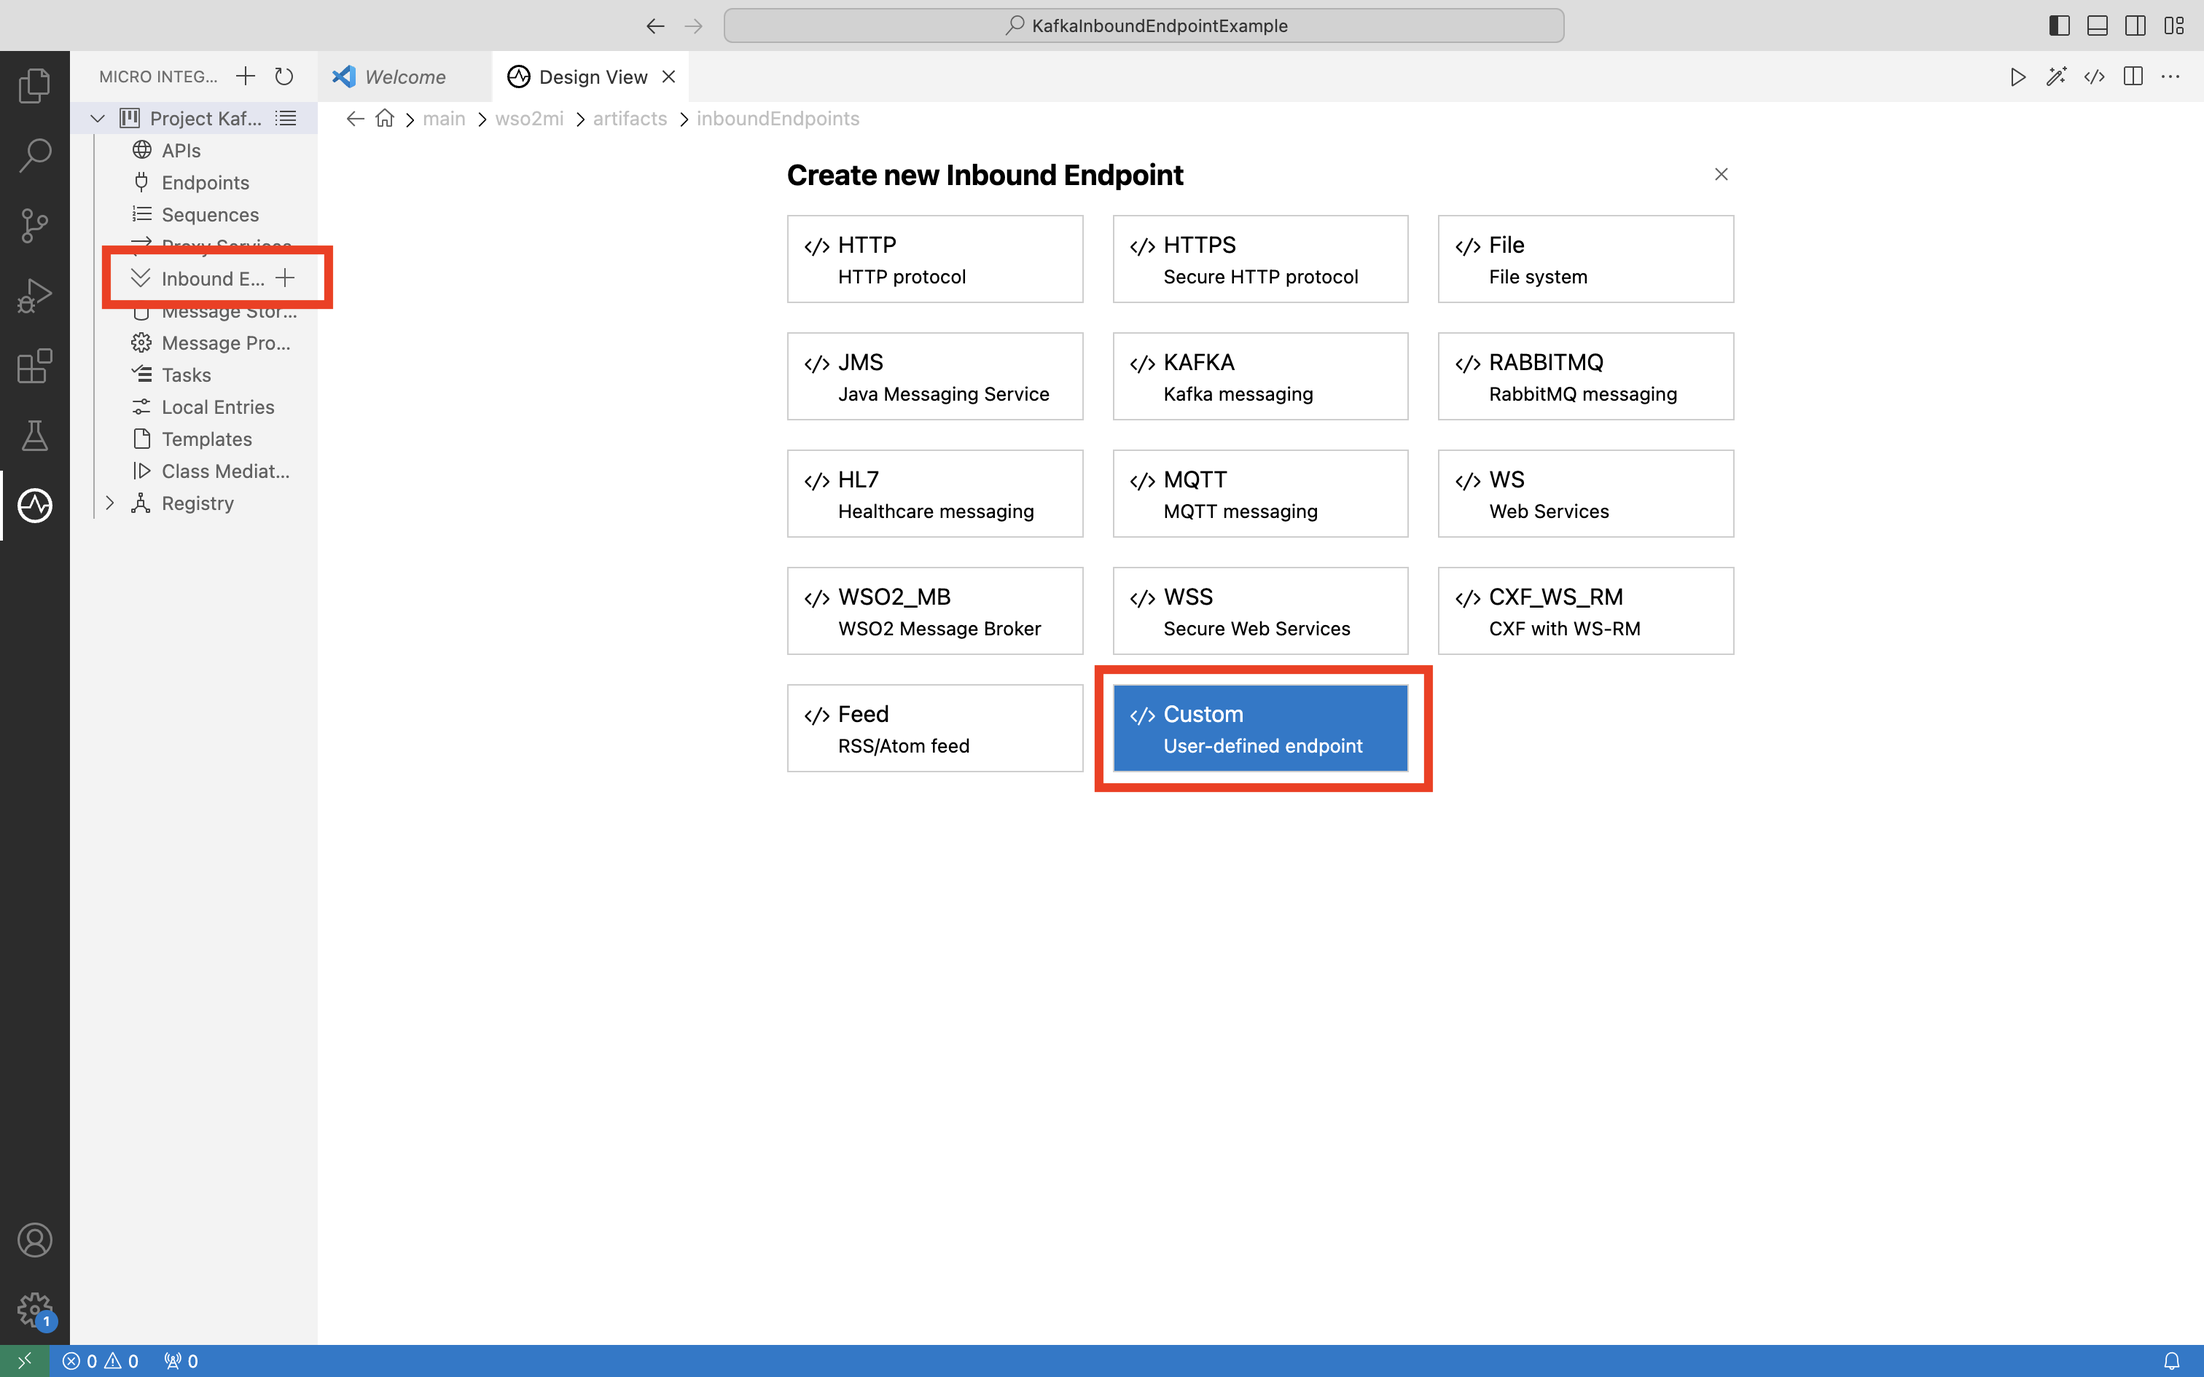
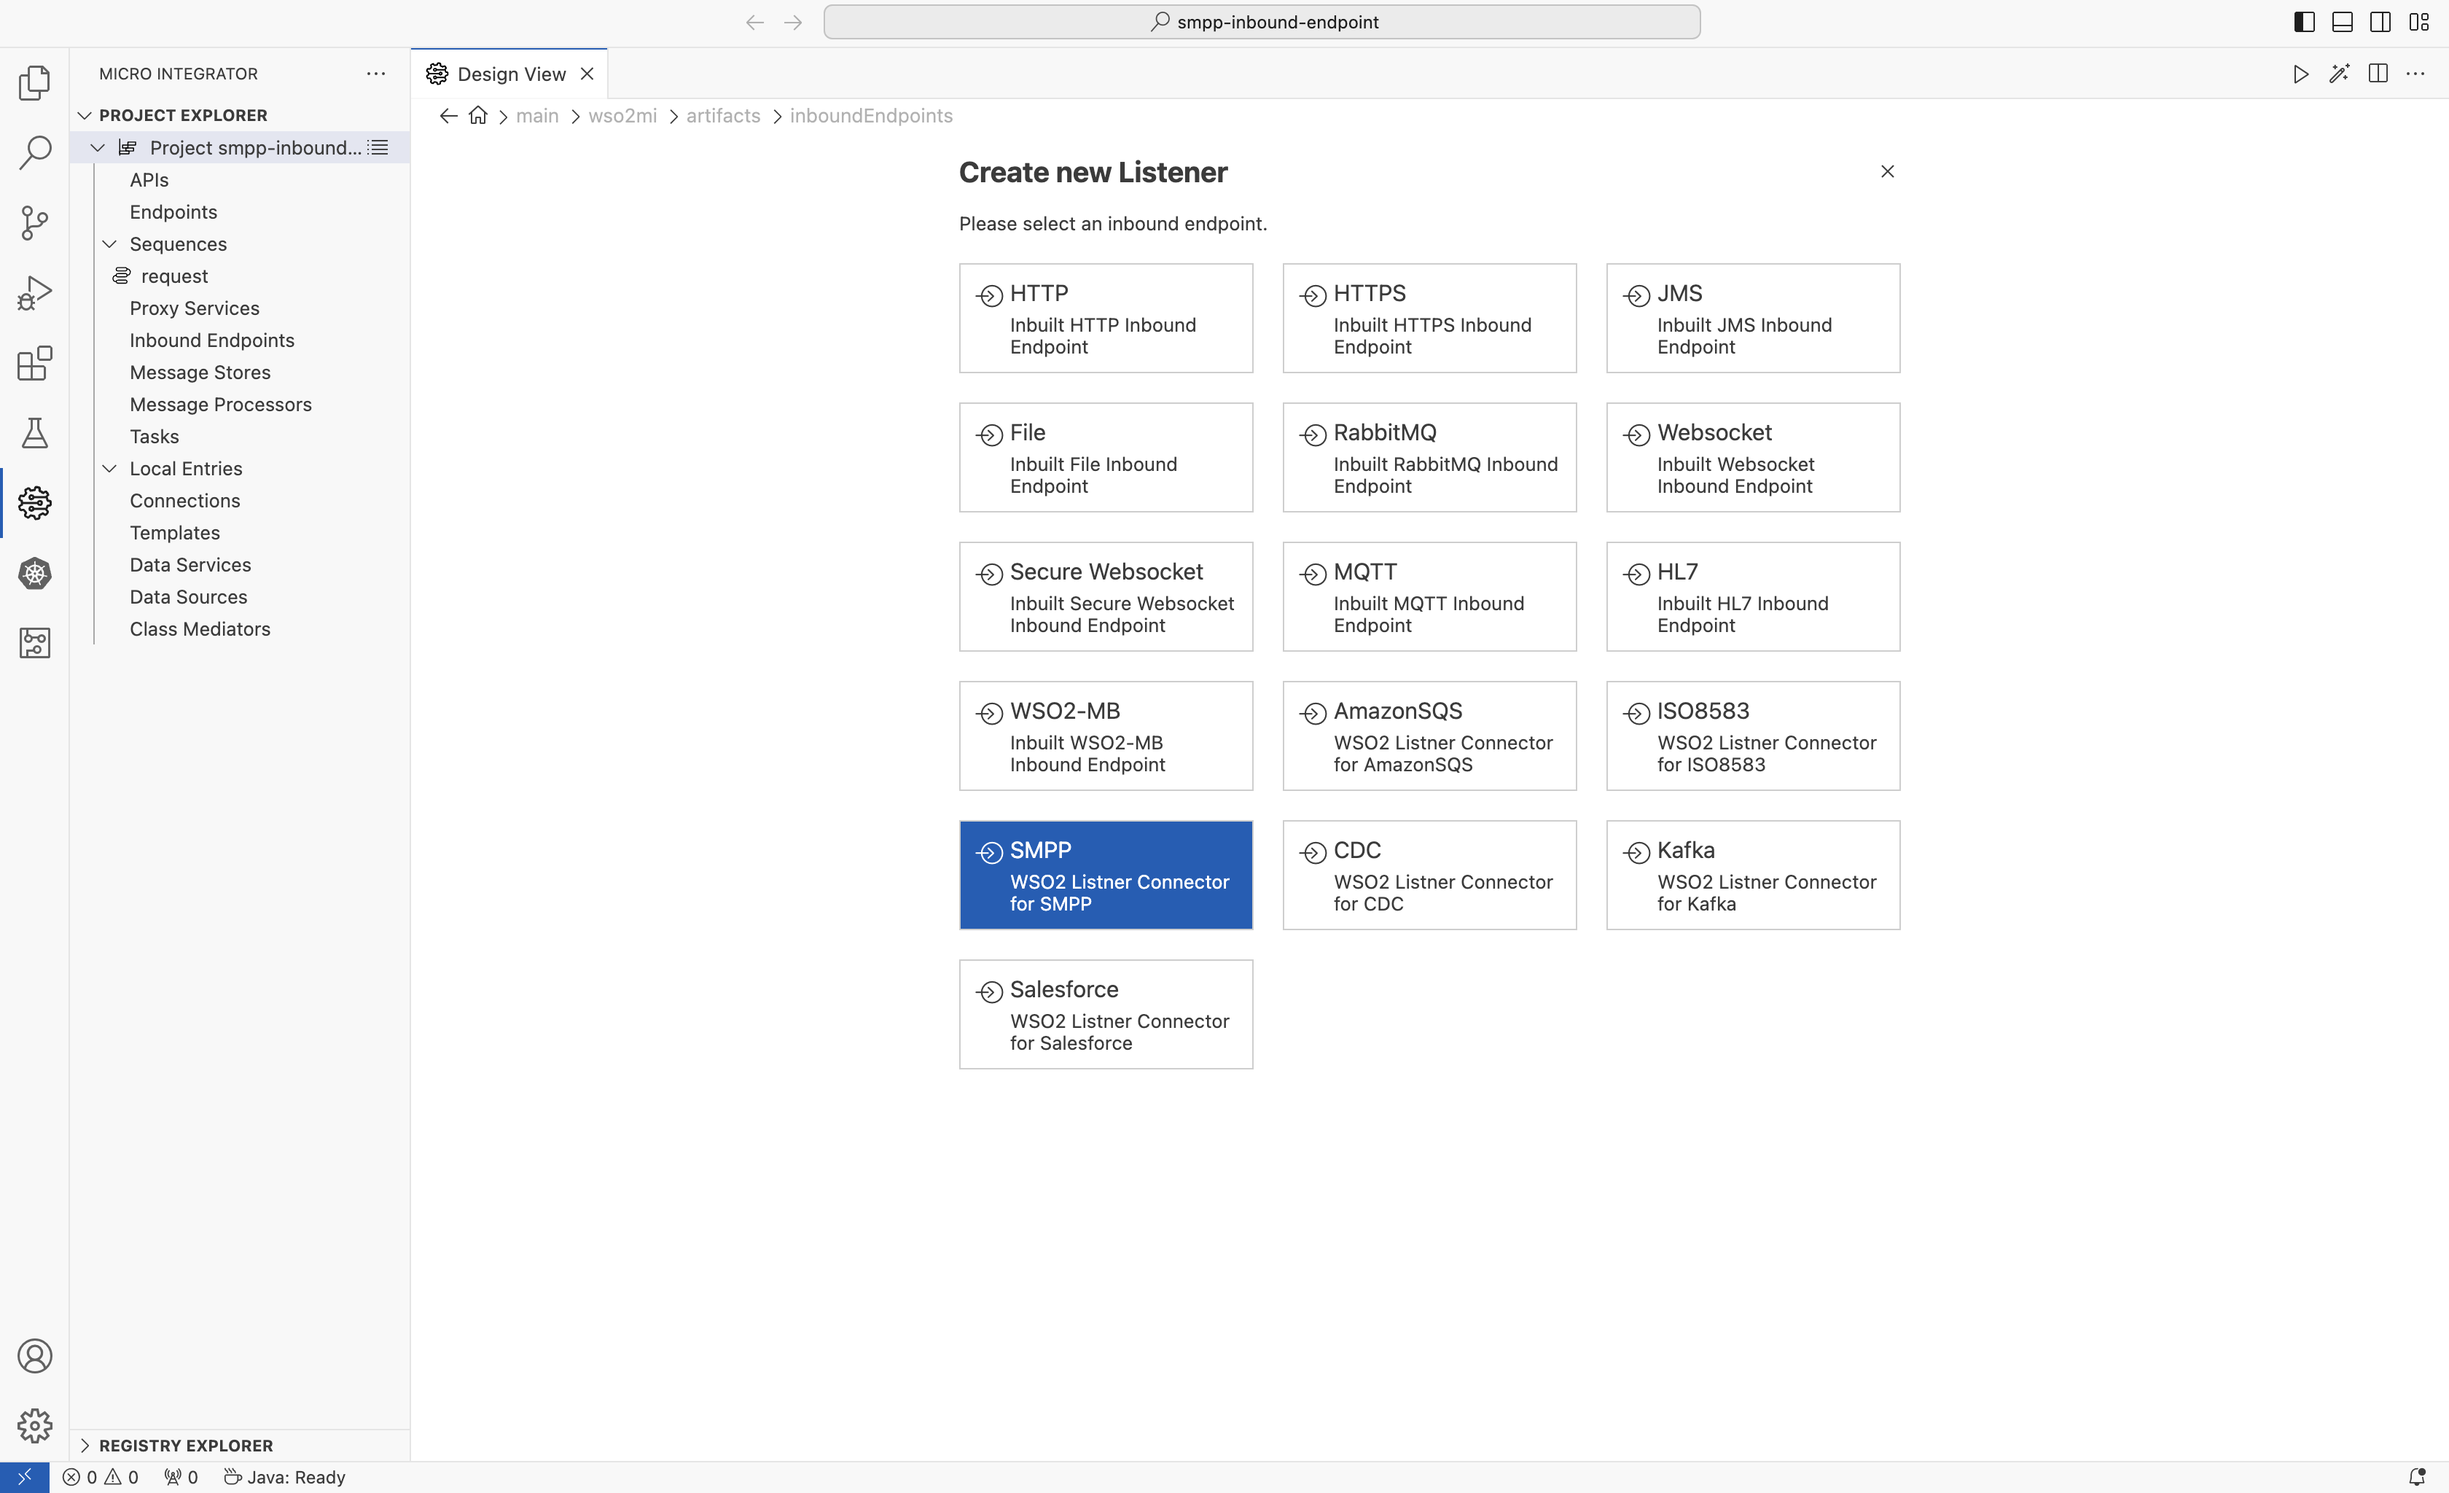
add changes related to new SMPP inbound endpoint UI schema
fixes:https://github.com/wso2/docs-mi/issues/653

Changed region(s): [[0.0, 0.0, 1.0, 1.0], [0.4041, 0.6556, 0.4663, 0.718]]

diff --git a/en/docs/reference/connectors/smpp-connector/smpp-inbound-endpoint-example.md b/en/docs/reference/connectors/smpp-connector/smpp-inbound-endpoint-example.md
@@ -44,41 +44,40 @@ The following diagram shows the overall solution we are going to build. The SMSC
       <log level="full"/>
    </sequence>
    ```
-3. Click `+` button next to `Inbound Endpoints` and select `Custom` to add a new **custom inbound endpoint**.    
-   <img src="{{base_path}}/assets/img/integrate/connectors/smpp-create-new-inbound-endpoint.png" title="Creating custom inbound endpoint" width="800" alt="Creating custom inbound endpoint" style="border:1px solid black"/>
+3. Click `+` button next to `Inbound Endpoints` and select `SMPP` to add a new **SMPP inbound endpoint**.    
+   <img src="{{base_path}}/assets/img/integrate/connectors/smpp-create-new-inbound-endpoint.png" title="Creating smpp inbound endpoint" width="800" alt="Creating smpp inbound endpoint" style="border:1px solid black"/>
 <br/>
-4. Configure the custom inbound endpoint as shown below and click `Create`.
-   <img src="{{base_path}}/assets/img/integrate/connectors/smpp-config-endpoint-1.png" title="Configure custom inbound endpoint 1" width="600" alt="Configure custom inbound endpoint 1" style="border:1px solid black"/>
-   <img src="{{base_path}}/assets/img/integrate/connectors/smpp-config-endpoint-2.png" title="Configure custom inbound endpoint 2" width="600" alt="Configure custom inbound endpoint 2" style="border:1px solid black"/>
+4. Configure the SMPP inbound endpoint as shown below and click `Create`.
+   <img src="{{base_path}}/assets/img/integrate/connectors/smpp-config-endpoint-1.png" title="Configure SMPP inbound endpoint 1" width="600" alt="Configure SMPP inbound endpoint 1" style="border:1px solid black"/>
+   
+   > **Note**: When creating the SMPP inbound endpoint you have two options in defining the injecting sequence and error sequence.
+    > - **Automatic** : Click the checkbox **Automatically generate sequence**
+    > - **Manual** : You can select already defined sequences as injecting and error sequences.
+    <img src="{{base_path}}/assets/img/integrate/connectors/smpp-injecting-and-error-sequence.png" title="Configure SMPP inbound endpoint Injecting and Error Sequences" width="600" alt="Configure SMPP inbound endpoint Injecting and Error Sequences" style="border:1px solid black"/>
 
-   The source view of the created inbound endpoint is shown below.
+    The source view of the created inbound endpoint is shown below.
    ```xml
-   <?xml version="1.0" encoding="UTF-8"?>
-   <inboundEndpoint xmlns="http://ws.apache.org/ns/synapse"
-                    name="SMPP"
-                    sequence="request"
-                    onError="fault"
-                    class="org.wso2.carbon.inbound.smpp.SMPPListeningConsumer"
-                    suspend="false">
-      <parameters>
-         <parameter name="inbound.behavior">eventBased</parameter>
-         <parameter name="sequential">true</parameter>
-         <parameter name="coordination">true</parameter>
-         <parameter name="port">2775</parameter>
-         <parameter name="addressNpi">UNKNOWN</parameter>
-         <parameter name="host">localhost</parameter>
-         <parameter name="reconnectInterval">3000</parameter>
-         <parameter name="addressTon">UNKNOWN</parameter>
-         <parameter name="systemType">CPT</parameter>
-         <parameter name="retryCount">-1</parameter>
-         <parameter name="bindType">BIND_RX</parameter>
-         <parameter name="addressRange">null</parameter>
-         <parameter name="systemId">kasun</parameter>
-         <parameter name="password">kasun</parameter>
-         <parameter name="exponentialFactor">5</parameter>
-         <parameter name="maximumBackoffTime">10000</parameter>
-      </parameters>
-   </inboundEndpoint>
+    <?xml version="1.0" encoding="UTF-8"?>
+    <inboundEndpoint name="SMPP" class="org.wso2.carbon.inbound.smpp.SMPPListeningConsumer" sequence="request" onError="fault" suspend="false">
+        <parameters xmlns="http://ws.apache.org/ns/synapse">
+            <parameter name="inbound.behavior">eventBased</parameter>
+            <parameter name="sequential">true</parameter>
+            <parameter name="coordination">true</parameter>
+            <parameter name="host">localhost</parameter>
+            <parameter name="port">2775</parameter>
+            <parameter name="systemId">pavel</parameter>
+            <parameter name="password">wpsd</parameter>
+            <parameter name="bindType">BIND_RX</parameter>
+            <parameter name="addressTon">UNKNOWN</parameter>
+            <parameter name="addressNpi">UNKNOWN</parameter>
+            <parameter name="enquireLinkTimer">10000</parameter>
+            <parameter name="transactionTimer">200</parameter>
+            <parameter name="reconnectInterval">1000</parameter>
+            <parameter name="retryCount">3</parameter>
+            <parameter name="exponentialFactor">5</parameter>
+            <parameter name="maximumBackoffTime">10000</parameter>
+        </parameters>
+    </inboundEndpoint>
    ```
    
 > **Note**: To configure the `systemId` and `password` parameter value, please use the steps given under the topic `Configure the SMSC (Short Message Service Center) simulator` in the [Setting up the SMPP Connector ]({{base_path}}/reference/connectors/smpp-connector/smpp-connector-configuration/) documentation.
@@ -105,7 +104,9 @@ You can download the ZIP file and extract the contents to get the project code.
 1. Navigate to the [connector store](https://store.wso2.com/store/assets/esbconnector/list) and search for `SMPP Connector`. Click on `SMPP Inbound Endpoint` and download the .jar file by clicking on `Download Inbound Endpoint`. Copy this .jar file into **PRODUCT-HOME/lib** folder. 
 
 2. Download  [jsmpp-2.1.0-RELEASE.jar](https://mvnrepository.com/artifact/com.googlecode.jsmpp/jsmpp/2.1.0-RELEASE) and [asyncretry-jdk7-0.0.6.jar](https://mvnrepository.com/artifact/com.nurkiewicz.asyncretry/asyncretry-jdk7/0.0.6) copy inside **PRODUCT-HOME/lib** folder.
-   
+   > **Note**: Alternatively for deployment step 1 and 2, MI for VS Code has provided the capability of copying jars to **PRODUCT-HOME/lib** folder while exporting the capp. You can copy necessary jars to **deployment/libs** folder under project explorer view.
+   > <img src="{{base_path}}/assets/img/integrate/connectors/copy-libs-via-vscode.png" title="Copy libs with VS Code" width="600" alt="Copy libs with VS Code" style="border:1px solid black"/>
+
 3. Copy the exported carbon application to the **PRODUCT-HOME/repository/deployment/server/carbonapps** folder. 
 
 4. [Start the integration server]({{base_path}}/get-started/quick-start-guide/#start-the-micro-integrator). 
